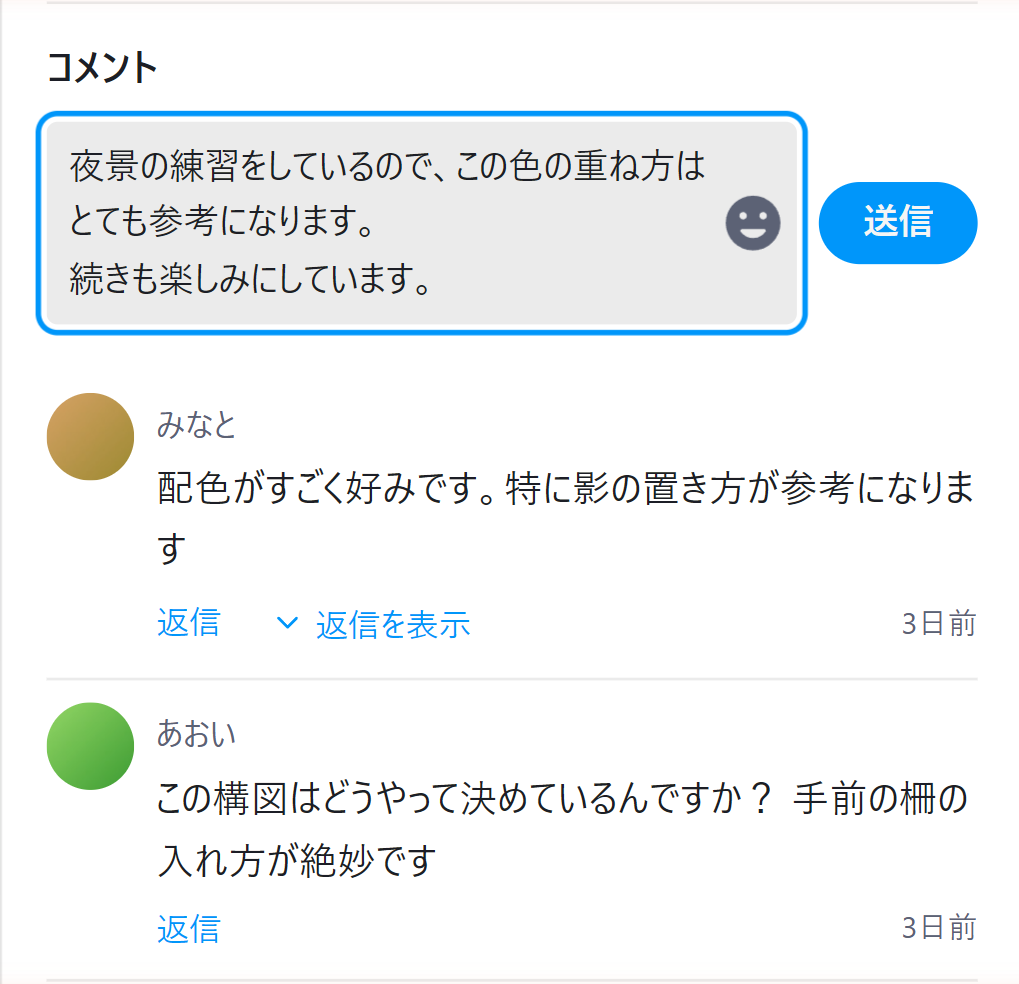
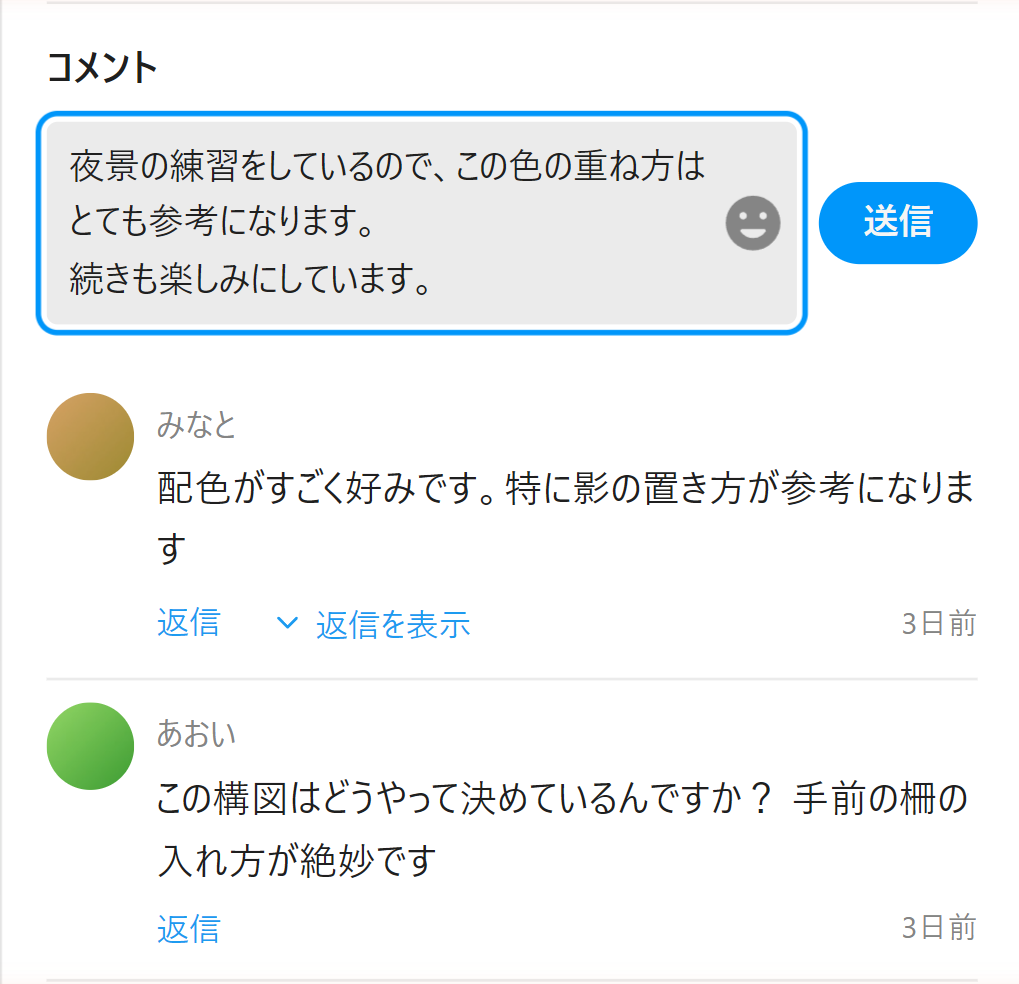
紹介サイトの画面写真を撮り直し、テストの fixture を架空の値にする
設定画面が 3 タブ・親子の構成になったので、設定ポップアップの写真を撮り直した。
ビュワーとコメント欄の写真も撮り直し、撮影に使うアカウントのアイコンを単色の丸に差し替えた。(他作品の図柄が写っていたため)
英語版はコメント日時を今の書式で撮り直した。
テストの fixture に実在の利用者らしい名前・本文・作品が入っていたので、架空の値と自分のテスト作品に置き換えた。

diff --git a/test/content/share-menu.test.js b/test/content/share-menu.test.js
@@ -5,7 +5,7 @@ import { fakeElement, fakeDoc, iconName, flush } from '../helpers/dom.js';
 import { createStrings } from '../../src/i18n/index.js';
 
 /** シェア対象の作品詳細の代わり。 */
-const DETAIL = Object.freeze({ id: '149431011', title: 'モンブラン', userName: 'チャイ' });
+const DETAIL = Object.freeze({ id: '149763512', title: '灯台とねこ', userName: 'NEONS' });
 
 /** 文言のカタログ (日本語)。 */
 const STRINGS = createStrings('ja');
@@ -96,7 +96,7 @@ test('リンクをコピーは作品 URL をクリップボードへ書き、で
 	const copy = list.children.find((child) => child.tag === 'button');
 	copy.dispatch('click', {});
 	await flush();
-	assert.deepEqual(written, ['https://www.pixiv.net/artworks/149431011']);
+	assert.deepEqual(written, ['https://www.pixiv.net/artworks/149763512']);
 	const status = list.children.find((child) => child.className === 'share-status');
 	assert.equal(status.getAttribute('role'), 'status');
 	assert.equal(status.textContent, 'リンクをコピーしました');
